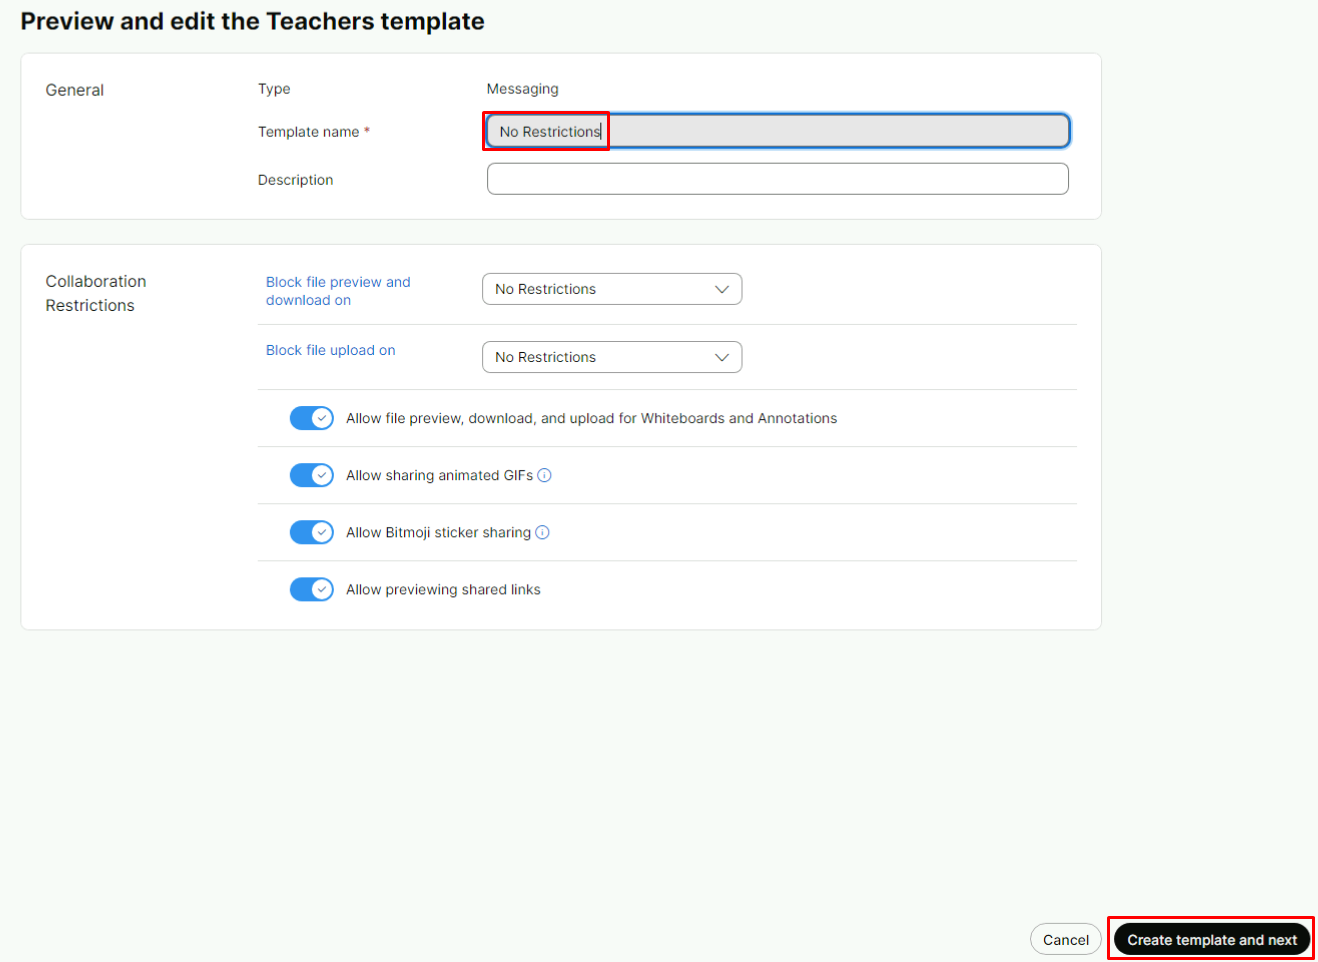
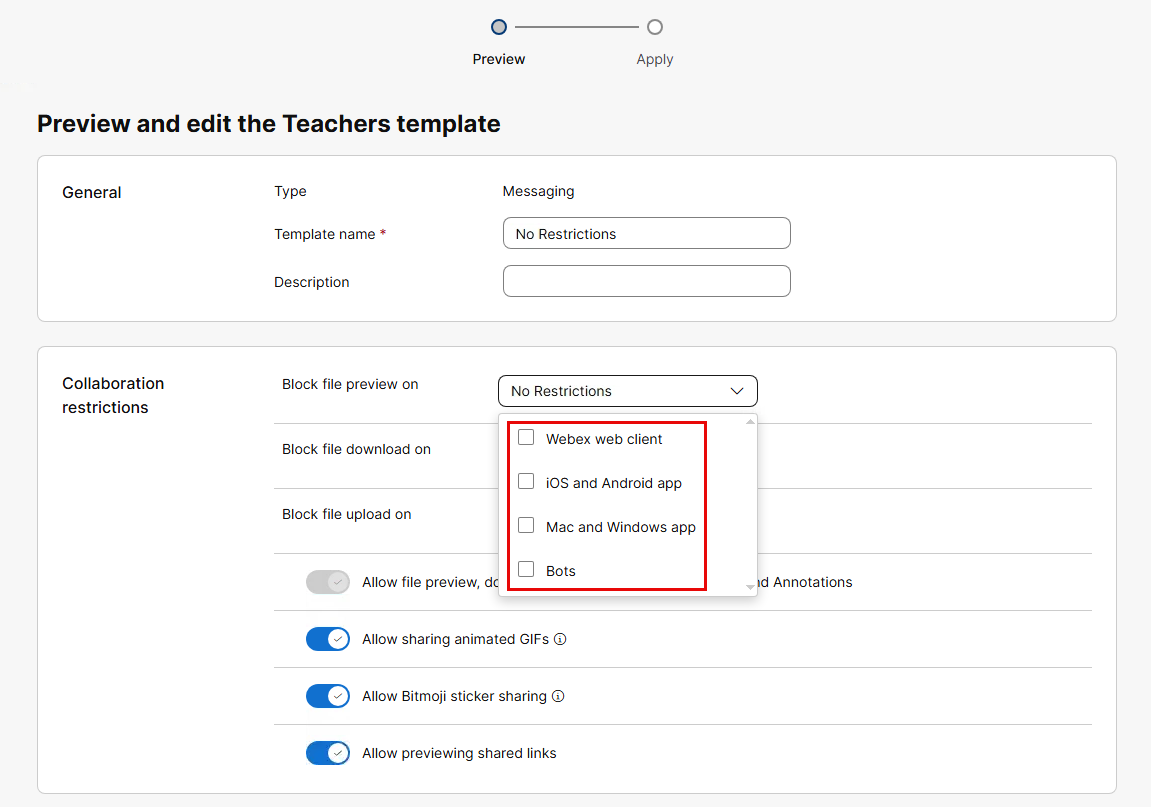
updating messaging templates

diff --git a/docs/module1_identity.md b/docs/module1_identity.md
@@ -484,7 +484,7 @@ Next, you will explore settings templates.
 
       ![](./media/image73.png){ width="400" style="border: 1px solid #888; border-radius: 4px;" }
 
-1. No changes need to be made so set the template name to **No Restrictions** and click **Create template and next**.
+1. The default settings will block file previews on all client types.  Select the **Block file preview on** option and untick all 4 options. Set the template name to **No Restrictions** and click **Create template and next**.
 
       ![](./media/image74.png){ width="400" style="border: 1px solid #888; border-radius: 4px;" }
 
